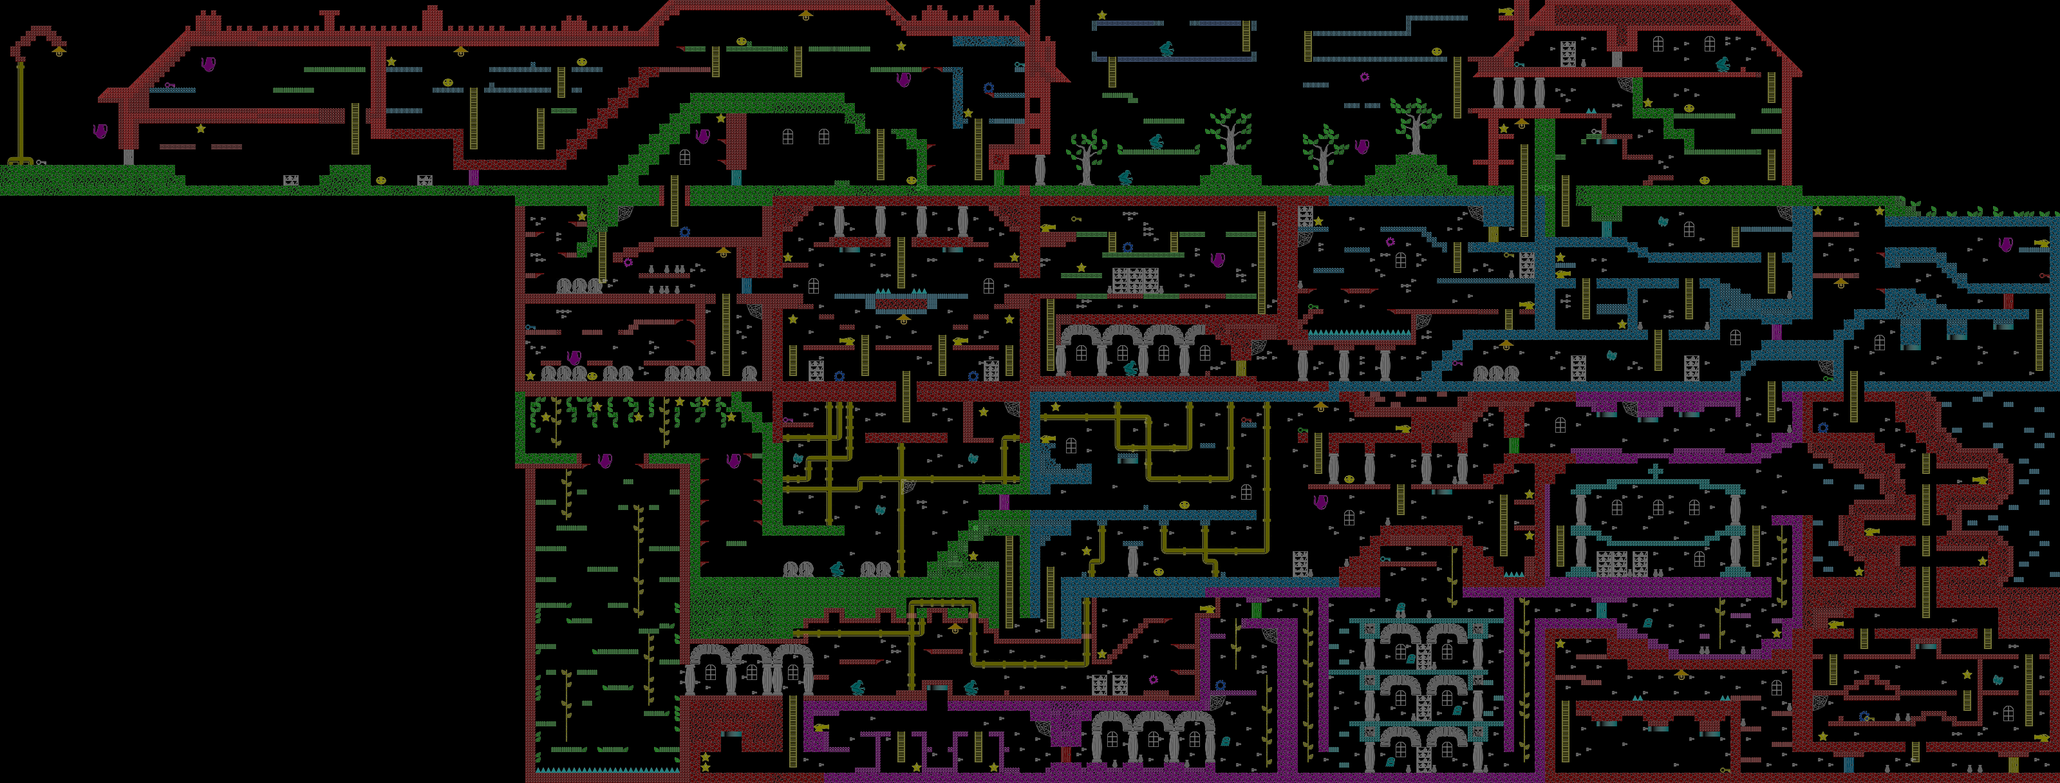
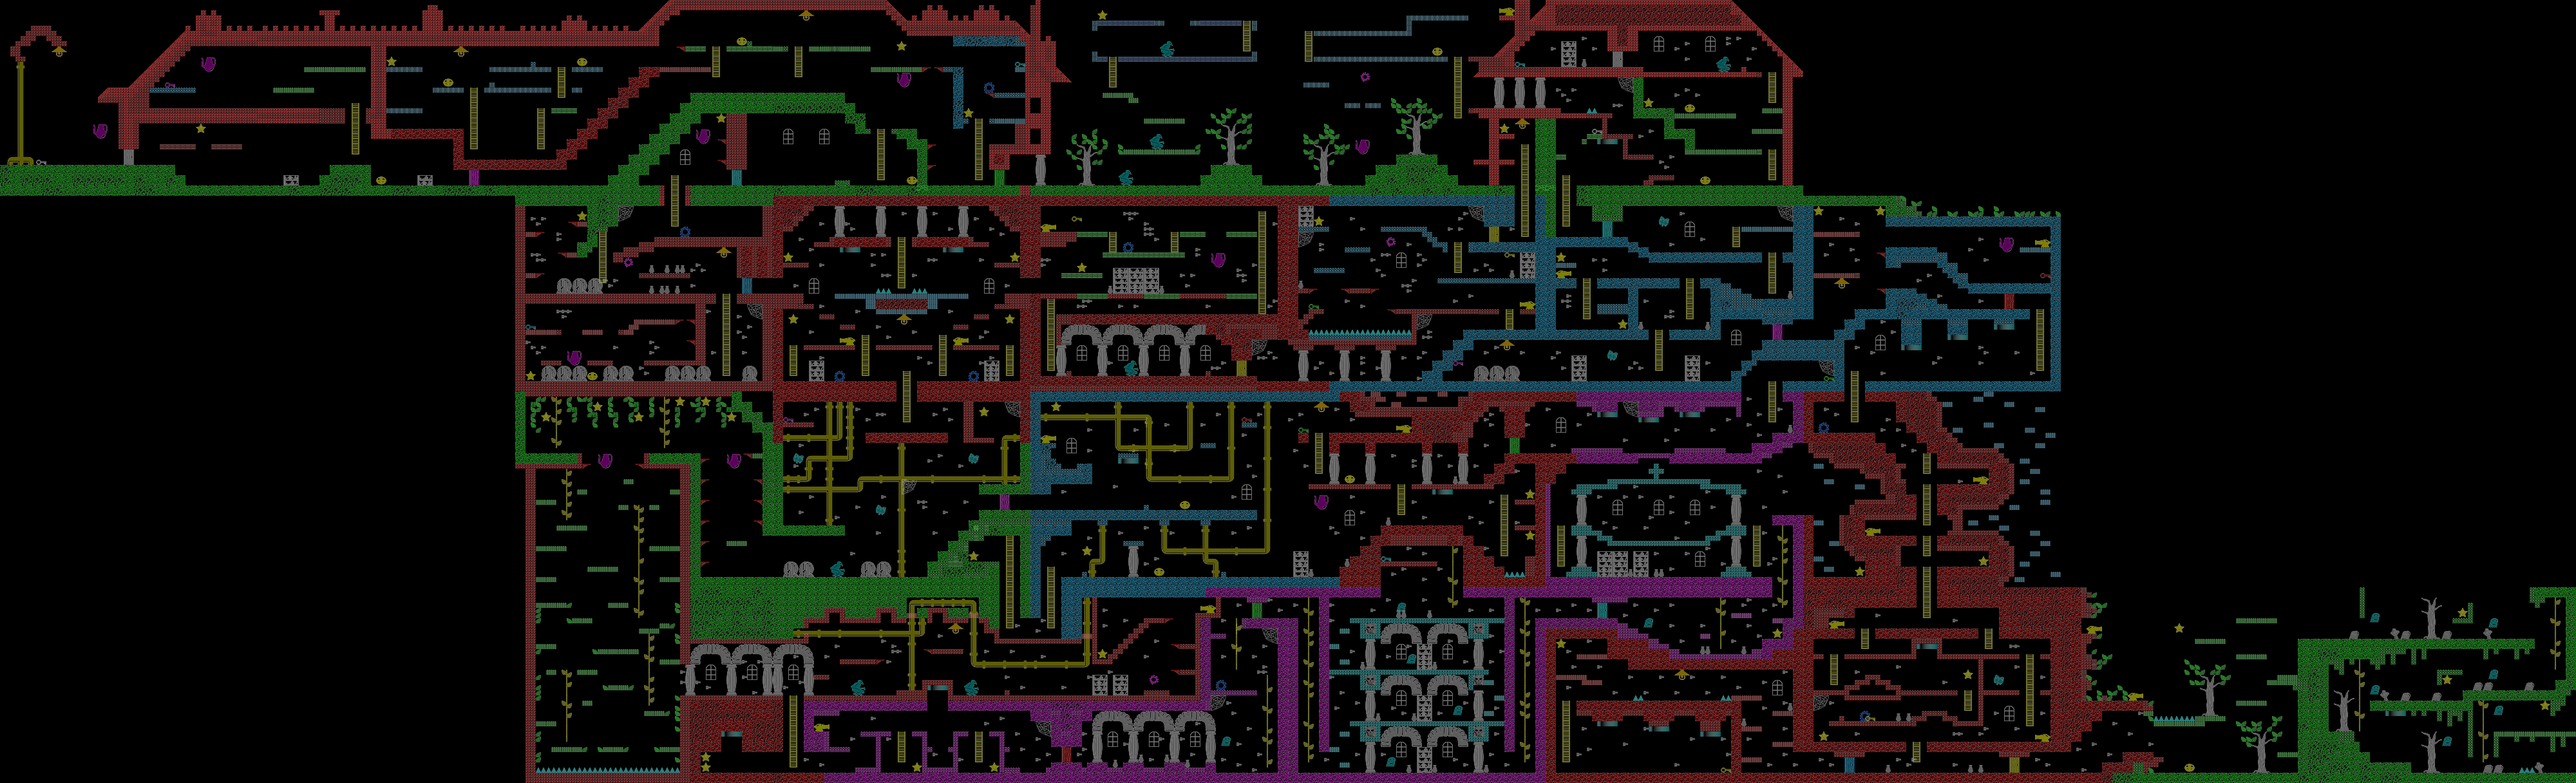
more rooms

diff --git a/src/rooms.js b/src/rooms.js
@@ -17,7 +17,7 @@ var WORLD = {
  	"earth": ["tunnel2", "earth2", "guesthouse", "chapel"],
  	"earth2": ["earth", null, null, "down"],
     "down": ["chapel", null, "earth2", "down2"],
-    "down2": ["down3", null, "down", null],
+    "down2": ["down3", "outside", "down", null],
 	"down3": ["crypt3", "down2", "chapel", null],
 	"pipeline": ["chasm", "pipeline2", "cellar2", "crypt"],
 	"pipeline2": ["pipeline", "stairs", null, "crypt2"],
@@ -27,7 +27,9 @@ var WORLD = {
 	"chapel": ["stairs", "down", "earth", "down3"],
 	"crypt": ["chasm2", "crypt2", "pipeline", null],
 	"crypt2": ["crypt", "crypt3", "pipeline2", null],
-	"crypt3": ["crypt2", "down3", "stairs", null]
+	"crypt3": ["crypt2", "down3", "stairs", null],
+	"outside": ["down2", "graves1", null, null],
+	"graves1": ["outside", null, null, null]
 
 };
 
@@ -56,7 +58,9 @@ var DESCRIPTIONS = {
     chapel: "The Chapel",
 	crypt: "Forgotten crypts",
 	crypt2: "Forgotten crypts",
-	crypt3: "Forgotten crypts"
+	crypt3: "Forgotten crypts",
+	outside: "In the Ravine",
+	graves1: "The old cemetery"
 };
 
 // rooms cache

diff --git a/src/textures.js b/src/textures.js
@@ -123,7 +123,9 @@ var BLOCKS = [
 	["yellow", "vine2"],
 	["yellow", "vine3"],
 	["turquoise", "ghost1"],
-	["white", "skull"]
+	["white", "skull"],
+	["white", "grave1"],
+	["white", "grave2"]
 ];
 
 EXTRA_INFO = {
@@ -233,6 +235,12 @@ EXTRA_INFO = {
         ladder: true
     },
 	"skull": {
+        decor: true
+    },
+	"grave1": {
+        decor: true
+    },
+	"grave2": {
         decor: true
     }
 };
